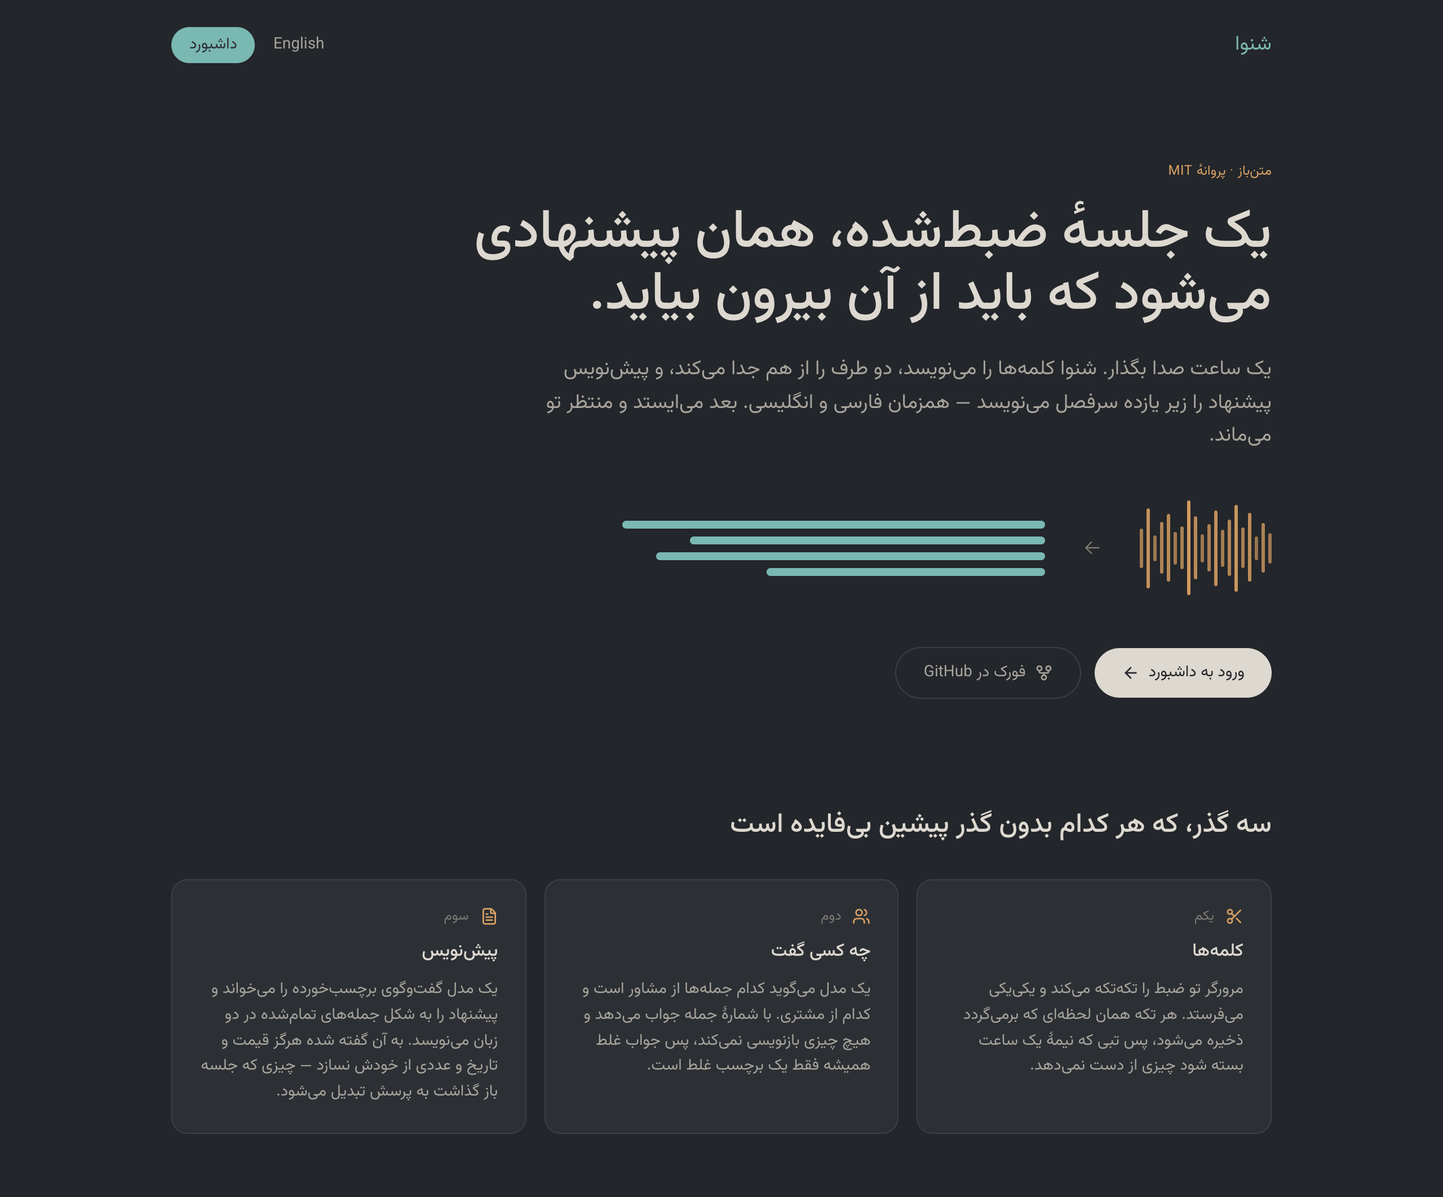
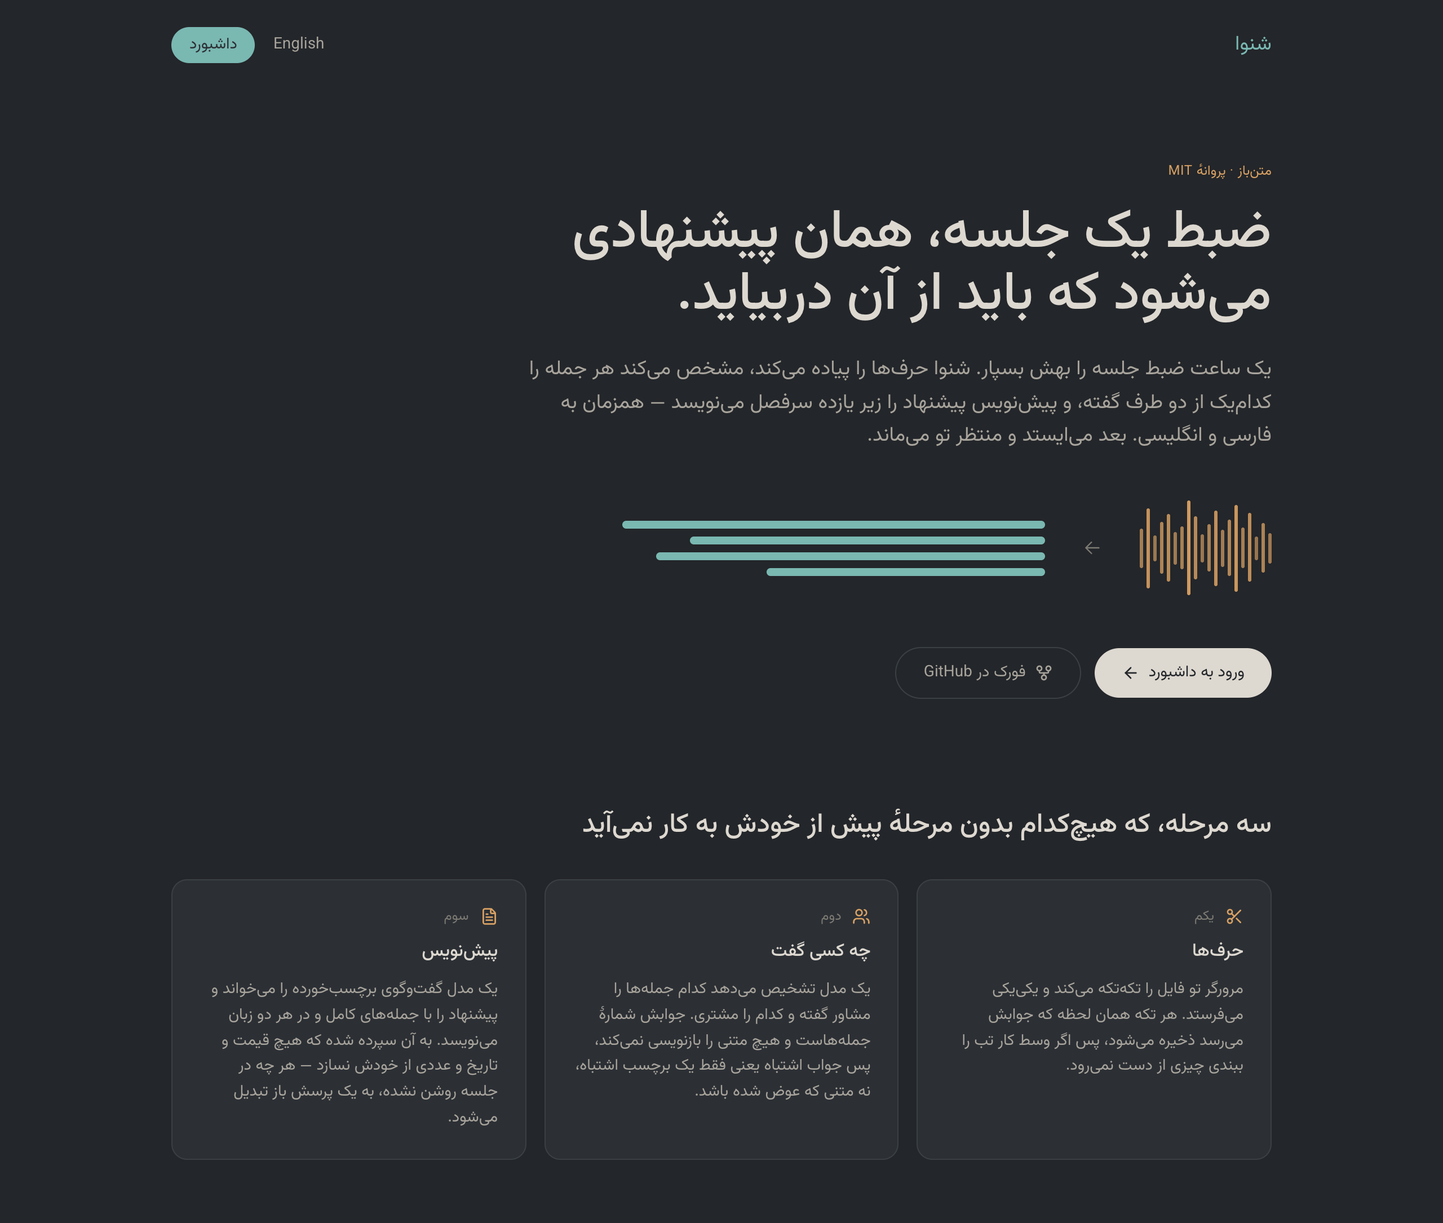
shenava: the Persian on the landing page, written as Persian
A native reader found it reading like English wearing Persian words, which it
was. The rule in AGENTS.md — the Persian edition is written as Persian, not
translated — was not kept on this page.

«گذر» is gone. It was a literal "pass", and in Persian a گذر is something you
walk through, not a stage of work: «مرحله» is the word. That replaces it on the
landing page and in the three other places it had reached — the speaker screen's
run-again button, the swap explanation, and the writer note in settings.

«یک ساعت صدا بگذار» was a calque of "drop in an hour of audio" and means nothing
in Persian; you hand a file to something. The three cards, the privacy note and
the cost line are all rewritten the same way, for sense rather than for word
order.

Two mistakes the rewrite turned up. «نه دقیقه» without its diacritic reads as
"not a minute" rather than "nine minutes". And the Persian edition said a long
piece was one and a half megabytes where the English said 1.6 — a number that
had drifted between the two editions, which is exactly what the kernel rule
exists to prevent.

The Persian screenshot is taken again, because the words in it changed.

diff --git a/prompts/BUILD-PROMPT.md b/prompts/BUILD-PROMPT.md
@@ -6,7 +6,14 @@ sufficient on its own: everything the agent needs to decide is decided here, and
 where a number matters the number is given.
 
 If you only want to understand the product, read [`PRD.md`](PRD.md) instead.
-This file is the instruction; that one is the specification.
+This file is the instruction; that one is the specification. The Persian edition
+of this instruction is [`BUILD-PROMPT.fa.md`](BUILD-PROMPT.fa.md), and it is
+written as Persian rather than translated — either one on its own builds the
+same application.
+
+This file is kept in step with the repository it built. Everything below
+describes Shenava as it now stands, including the four or five decisions that
+were made differently once and corrected.
 
 ---
 
@@ -21,12 +28,21 @@ This file is the instruction; that one is the specification.
 >
 > ### Stack, fixed
 >
-> Next.js (App Router, TypeScript, React Server Components), Tailwind CSS,
+> Next.js 16 (App Router, TypeScript, React Server Components), Tailwind CSS 4,
 > Supabase Postgres reached through `@supabase/supabase-js` with the service
 > role key on the server only, `next-intl` for Persian and English with Persian
 > as the default and right-to-left, `zod` for every payload boundary, the `docx`
 > package for Word output, `lucide-react` for icons, and
 > `@mazarix/voice-kernel` from npm (MIT) for the transcription constants.
+>
+> Two things about Next 16 in particular: the request-time middleware file is
+> now `src/proxy.ts`, not `middleware.ts` — the convention was renamed, while
+> the import stays `next-intl/middleware`, because next-intl has no `/proxy`
+> entry point. And read the guides under `node_modules/next/dist/docs/` rather
+> than working from memory of an older version; several conventions moved.
+>
+> Run the dev server on **port 3100**, not 3000, so it does not collide with
+> whatever else the person has running.
 >
 > Model calls go to **OpenRouter** over its OpenAI-compatible chat completions
 > endpoint. One key, `OPENROUTER_API_KEY`. Do not add a provider SDK.
@@ -47,9 +63,9 @@ This file is the instruction; that one is the specification.
 > tail of the chunk before it. A wrong answer must only ever be a wrong label.
 >
 > **Pass three, the draft.** A model reads the labelled dialogue and writes the
-> proposal draft under the eleven headings listed below, **in both languages at
-> once**, as finished formal sentences that could stand in the proposal
-> unchanged. Then it stops: the draft is `pending` and a person decides.
+> proposal draft under the headings listed below, **in both languages at once**,
+> as finished formal sentences that could stand in the proposal unchanged. Then
+> it stops: the draft is `pending` and a person decides.
 >
 > ### Pass one in detail — this is the part that is not obvious
 >
@@ -80,6 +96,10 @@ This file is the instruction; that one is the specification.
 > like an error), and **disable the mode with a visible sentence** when
 > `AudioEncoder` is absent or cannot do Opus, which is Safari's case. Do not
 > offer it and fail.
+>
+> **Mode B is the default and is offered first**, because it is what a real
+> meeting wants; a browser with no Opus encoder falls back to mode A, since the
+> default must never be the disabled option.
 >
 > **Every tuned number in this pipeline comes from `@mazarix/voice-kernel` and
 > nothing may hard-code one.** The prompt, the retry policy, the timeout curve,
@@ -114,6 +134,24 @@ This file is the instruction; that one is the specification.
 > half again the room. Do not parse what was never finished: a truncated JSON
 > reads as "unreadable" and sends you looking in the wrong place.
 >
+> ### Every seat's output ceiling is computed, and lives in one testable file
+>
+> This is the same mistake made three times, so make it impossible once. Put
+> `outputCeilingFor(durationMs, floor)`, `spansCeilingFor(sentences, floor)` and
+> `ceilingFor(promptLength, floor)` in **one file with no imports at all** —
+> because the modules that call them are marked `server-only`, and `server-only`
+> does not resolve outside Next, which would put these numbers beyond the reach
+> of a test. Scale the transcriber by the audio (about 40 output tokens a second
+> of speech), the speaker pass by the sentence count (about 40 a sentence), and
+> the writer by the length of what it was given (about a token a character),
+> each never below the configured floor and never above one hard maximum.
+>
+> An answer stopped at its ceiling does not arrive labelled as such. It arrives
+> as a truncated transcript that reads like bad dictation, or as half a JSON
+> object that reads as "this model does not return reliable JSON". Both send you
+> to the model settings; neither is the model. The tell is in the ledger:
+> `tokens_out` of exactly the configured ceiling, twice, to the token.
+>
 > ### Audio is never stored
 >
 > Not in the database, not in object storage, not on disk. The browser decodes
@@ -121,6 +159,13 @@ This file is the instruction; that one is the specification.
 > transcribes it and forgets it; the whole file is never uploaded anywhere. The
 > **text** is stored, deliberately, because the text is the product. Say both
 > sentences in the README.
+>
+> One consequence you must build rather than apologise for: sending starts on
+> the create page, while the samples are still in that page's memory, so the
+> file is chosen exactly once on the ordinary path. If the tab was closed and
+> the meeting is reopened with pieces still pending, ask for **the same file**
+> again and check its sha256 against the one on the meeting row before sending a
+> byte. Say why the second ask happens.
 >
 > ### The database
 >
@@ -130,7 +175,9 @@ This file is the instruction; that one is the specification.
 > **`shenava_settings`**, one row id 1 — the studio's name in both scripts and
 > its voice as free text; the transcriber's model, fallback model and output
 > ceiling; the writer's model, temperature and output ceiling; a daily and a
-> monthly dollar ceiling; retention in days.
+> monthly dollar ceiling; retention in days. Default the transcriber to a fast
+> multimodal model and the writer to one with judgement — the seats want
+> different models, which is why they have separate columns rather than one.
 >
 > **`shenava_meetings`** — title, client name, language; the audio's *shape*
 > (name, bytes, sha256, duration, piece count) but never the audio; transcript;
@@ -159,6 +206,11 @@ This file is the instruction; that one is the specification.
 > **`shenava_proposals`** — what an approved draft becomes: a number, a
 > language, a client, and the template's sections filled in.
 >
+> Three functions beside them: `shenava_spend_status()`, read before every model
+> call; `shenava_cost_by_seat(days)` for reading the ledger back; and
+> `shenava_clear_out()`, which drops meetings past `retention_days`, where zero
+> means keep forever. Plus a touch trigger for `updated_at`.
+>
 > Enable Row Level Security on all six and write **no policies**, which locks
 > the anon key out of everything; all access is server-side through the service
 > role key. Ship the DDL as `db/01_schema.sql`, idempotent, paste-able into the
@@ -177,10 +229,13 @@ This file is the instruction; that one is the specification.
 > the call succeeded or not — a failed call that consumed tokens still cost
 > money. Default the ceilings to $3 a day and $30 a month.
 >
-> ### The draft's eleven sections
+> ### The draft's sections
 >
-> In this order, with these headings in both languages, and each wanting exactly
-> what is described:
+> Two keys settle what the document is — `title`, the engagement in a few words,
+> and `engagement`, one of `project|consulting|training|retainer|unknown`, which
+> is what chooses the suggested template. Then **eleven sections**, in this
+> order, with these headings in both languages, each wanting exactly what is
+> described:
 >
 > `summary` — «خلاصهٔ پیشنهاد» / Summary. Two or three sentences: what the
 > client needs, what is proposed, and what is different for them afterwards.
@@ -195,7 +250,8 @@ This file is the instruction; that one is the specification.
 >
 > `phases` — «مراحل و زمانبندی» / Phases and timeline. The stages the
 > consultant proposed and the client accepted, each a title and a line of
-> detail, with a `when` only if the meeting settled it.
+> detail, with a `when` only if the meeting settled it — plus a `scheduleNote`,
+> one line on the overall timing, only if it was discussed.
 >
 > `method` — «روش اجرا، مشارکت و پشتیبانی» / How we work, together, and
 > afterwards. Discovery, iterations, what the client's side provides, how
@@ -224,6 +280,17 @@ This file is the instruction; that one is the specification.
 > The model writes the facts **first**, then both editions from that list and
 > from nothing else.
 >
+> Three sections a proposal also prints are deliberately **not** here: why us,
+> the terms, and the priced packages. Those are the studio's own lines, they
+> live on the template as house lines, and the writer is told about them so it
+> never proposes them itself.
+>
+> The notes keys are the template's section keys, so pouring an approved draft
+> into a template is a copy and not a mapping. Clamp every length rather than
+> rejecting: a model cannot count characters, least of all in Persian, and a
+> good set of notes with one over-long line is a good set of notes. A missing
+> section arrives empty rather than failing the parse.
+>
 > ### The writer's rules, which go in its prompt
 >
 > Every line under a section is a finished, formal, fluent sentence that could
@@ -232,7 +299,9 @@ This file is the instruction; that one is the specification.
 > **Never invent a price, a timeline, a percentage, a headcount or a deadline.**
 > A number that was said is kept exactly; a number that was not said means the
 > section stays quieter and the question goes to `openQuestions`. This is the
-> rule the whole product is judged on.
+> rule the whole product is judged on — so put the wording of it in a file with
+> no imports, and have a test assert the phrasing, so that softening it has to
+> be a deliberate act with a failing test in front of it.
 >
 > Read the **client's** lines for understanding, goals, budget and exclusions,
 > and the **consultant's** lines for phases, method and deliverables — and write
@@ -264,14 +333,17 @@ This file is the instruction; that one is the specification.
 > to the sample meeting; and two buttons — open the dashboard, and fork it.
 > Animate it: a waveform resolving into lines of text, the three passes arriving
 > on scroll, counters that count. Make it good; it is the first thing anyone
-> sees and the reason they fork it.
+> sees and the reason they fork it. Point the fork button at the repository
+> itself, and check where it lands — a fork URL that is one path segment wrong
+> opens an empty page and nobody reports it.
 >
 > **`/app` — meetings.** The list: title, client, when, status, cost, draft
-> status. Newest first.
+> status. Newest first. A meeting can be deleted from here, with a confirmation.
 >
 > **`/app/new` — new meeting.** Title, client, language, mode, file. Choosing
 > the file plans the cuts **in the browser** and shows what it will do — "7
-> pieces, about 4 minutes" — before anything is sent.
+> pieces, about 4 minutes" — before anything is sent. Sending then starts on
+> this same page: the samples are already here, so the file is chosen once.
 >
 > **`/app/m/[id]` — one meeting**, the working surface, revealed in stages:
 > the pieces as a strip with their state while it transcribes; the transcript
@@ -304,23 +376,53 @@ This file is the instruction; that one is the specification.
 > read from the environment and shown as *set* or *missing*, **never their
 > values**, with a **test** button that really calls all three and answers green
 > or red per line; and the schema file to paste, with a check for whether the
-> tables exist yet.
+> tables exist yet. This page must repeat every check the setup script makes,
+> because it is where a person goes when something stops working later.
 >
 > **`/app/templates`** — the built-in template and your own: sections, headings
 > in both languages, house lines.
 >
-> ### Keys and the door
+> ### Keys, the setup script, and the door
 >
 > No key in code, in the database, or in the browser.
 > `NEXT_PUBLIC_SUPABASE_URL`, `SUPABASE_SERVICE_ROLE_KEY` and
-> `OPENROUTER_API_KEY` are required; `APP_PASSWORD` is optional and **empty by
-> default**, meaning no login at all — which is correct on `localhost`, where
-> the only person who can open the page is the person sitting at the machine.
-> Put the whole decision of "who is asking" in one function in one file, so that
-> real accounts can be added later without touching anything else. In the README,
-> say plainly: leave it empty locally; set it before putting this on a public
-> domain, because a public deployment carries your own OpenRouter key and anyone
-> who opens the record page is spending your money. Ship `.env.example`.
+> `OPENROUTER_API_KEY` are required; `NEXT_PUBLIC_SUPABASE_ANON_KEY`,
+> `OPENROUTER_APP_NAME` and `OPENROUTER_APP_URL` are optional. Ship
+> `.env.example` with every one of them and a comment saying what it is for.
+>
+> **Write a setup script**, `npm run setup`, and make it the whole of
+> configuration. It asks for one value at a time and **tests each answer against
+> the real service before asking the next question** — fetches the Supabase
+> project, tries the service key against a real table, counts the six tables and
+> stops to have the two SQL files pasted if they are missing, calls OpenRouter
+> and prints the remaining credit. It writes `.env.local` only at the end, after
+> showing every value it is about to write — a key as `set · 219 characters`,
+> never the key itself — and it never prints a key back. Re-running it keeps
+> every answer the person does not change.
+>
+> The reason for the script rather than "edit this file": a wrong value in an
+> environment file is not discovered when it is written. It is discovered later,
+> as a page that will not load, at which point the file looks perfectly
+> reasonable and you are debugging the wrong half of the problem.
+>
+> **The door.** `APP_PASSWORD` is empty by default, meaning no login at all,
+> which is correct on `localhost`: the only person who can open the page is the
+> person sitting at the machine. Put the whole decision of "who is asking" in one
+> function in one file — `allowed()` in `lib/auth.ts` — so that real accounts can
+> be added later without touching anything else.
+>
+> Be honest about what a half-built door does. If `allowed()` demands a signed
+> session cookie whenever `APP_PASSWORD` is set, and you have not built a
+> sign-in page that issues one, then setting it does not protect anything: it
+> refuses every write and leaves no way in. So either write the sign-in page, or
+> say plainly — in `.env.example`, in the README, and by having the setup script
+> write it empty without offering to set it — that this build has no login and
+> the variable must stay empty until one exists. Keep `sessionCookie()` written
+> and exported, so the page that is missing has something to mint from.
+>
+> Then say the rest of it plainly in the README: a public deployment carries your
+> own OpenRouter key, and anyone who opens the record page is spending your
+> money, so write the door before deploying rather than after.
 >
 > ### Design
 >
@@ -335,27 +437,72 @@ This file is the instruction; that one is the specification.
 > widens instead. Give any such scroller `position: relative`.
 >
 > Both message catalogues must hold the same key set, and nothing user-facing
-> may be a string literal in a component.
+> may be a string literal in a component. A key whose value is an object cannot
+> be asked for as a string: `t("mode")` beside a `mode: { … }` block throws at
+> render while the page still answers 200, so give the label its own key.
+>
+> Three failures on this side answer 200 and look like nothing, so build against
+> them from the start: a Tailwind 4 arbitrary value the browser discards without
+> a word; a navigation into a dynamic route that shows no sign of having been
+> clicked because there is no `loading.tsx` above it; and a long await inside
+> `useTransition`, which entangles every navigation in the application. Add a
+> headless-browser script that opens each page and reports anything that
+> rejects, and an `instrumentation-client.ts` that catches a rejection whose
+> value is not an `Error` before Next's overlay coerces it into
+> `[object Object]` with the handler's own stack — in development only, and
+> ignoring what a browser extension injected, because the first hour of that was
+> spent on a wallet extension's JSON-RPC error.
+>
+> ### How the tests are run, and what that constrains
+>
+> `npm test` is `node --test tests/*.test.ts` — run directly against the
+> TypeScript, with no bundler in front of it. Two consequences shape the layout
+> of `src/lib`:
+>
+> A relative import inside `src/lib` **carries its `.ts` extension**
+> (`from "./text.ts"`), because node's ESM resolver does not guess one.
+> Turbopack and `tsc` both accept the explicit form, so set
+> `allowImportingTsExtensions` in `tsconfig.json` and use it everywhere.
+>
+> Pure logic must not live in a module marked `server-only`: that package does
+> not resolve outside Next, so anything importing it is unreachable from a test.
+> Mark a module `server-only` when it holds a key, a database client or a
+> `next/*` import — not because it happens to run on the server today. The
+> ceilings, the settings shape, the proposal guide, the Word writer and the
+> print sheet are all outside it for exactly this reason.
+>
+> Aim for about a hundred tests and no browser or network in any of them. Have
+> one of them build a real .docx and read its XML back: that test found a bug
+> the typecheck could not — the draft's own title was not reaching the document.
 >
 > ### Order of work
 >
 > 1. The project, the environment example, the schema and the seed, the
->    connections page. Stop here and confirm it runs and the sample meeting
->    renders with no OpenRouter key set.
+>    connections page. Stop here and confirm it runs on port 3100 and the sample
+>    meeting renders with no OpenRouter key set.
 > 2. The pure logic, with unit tests as you go: the splitter and the quietest
 >    cut; the WAV writer and the byte-level halving; the Opus encoder and the
 >    Ogg container and its page-level halving; the sentence cutter and
 >    ranges-to-turns and the two splitters; the notes schema and its section
->    merge; Word and the print sheet.
+>    merge; the ceilings; Word and the print sheet.
 > 3. The server: the OpenRouter client, the price table, the spend check and the
 >    ledger, the transcription call with its three failure handlers, the speaker
->    pass, the writer, one-section rewrite, and the five routes.
+>    pass, the writer, one-section rewrite, and the routes.
 > 4. The dashboard: list, new, the meeting page with all three stages, settings,
 >    templates.
 > 5. The landing page and its animation.
-> 6. The README, and a `docs/` note for each thing that took you more than an
->    hour to find — the symptom, what it actually was, and the command that
->    would find it again.
+> 6. The setup script, and the README written around it — three commands, then
+>    the questions the script asks, in the order it asks them.
+> 7. A `docs/` note for each thing that took more than an hour to find: the
+>    symptom as it appeared, what it actually was, and the command that would
+>    find it again. The last part is the point. Then a walkthrough of one
+>    recording from chosen to drafted, with every number and the reason for it,
+>    which is the document to read before touching the cutting code.
+> 8. The Persian editions: the README, the walkthrough, and this instruction.
+>    Each written as Persian, not translated. GitHub renders a README in a font
+>    stack with no Persian glyphs and its sanitiser strips `style`, so if the
+>    Persian edition matters, give it a page of its own in a readable face and
+>    link to it.
 >
 > ### What proves it is done
 >
@@ -364,8 +511,8 @@ This file is the instruction; that one is the specification.
 > reason. A filtered piece produces two halved requests and a piece row that
 > says so. The draft contains no figure the transcript does not contain.
 > Approving pours the draft into the template and produces a numbered proposal.
-> Both catalogues hold the same keys, and no Persian page scrolls sideways at
-> 320 pixels.
+> `npm run typecheck && npm test` is green. Both catalogues hold the same keys,
+> and no Persian page scrolls sideways at 320 pixels.
 
 ---
 
@@ -373,11 +520,16 @@ This file is the instruction; that one is the specification.
 
 It is long on purpose. Every paragraph that reads like an over-specification is
 a thing that was got wrong once: the safety filter, the output ceiling on long
-pieces, the Ogg container, the editing splitter gluing «بله» onto its neighbour,
-the absolutely positioned label widening the page. An agent given the short
-version of this prompt will write something that looks right and fails on real
-audio.
+pieces — three times, in three seats — the Ogg container, the editing splitter
+gluing «بله» onto its neighbour, the absolutely positioned label widening the
+page, the half-built door that locks you out, the overlay whose whole message
+was `[object Object]`. An agent given the short version of this prompt will
+write something that looks right and fails on real audio.
 
 The one thing you should change before running it is the **stack**, if you do
 not want Next.js and Supabase. The three passes, the two cutting modes and the
 failure handling are the product; the framework is not.
+
+The rules an agent working *inside* the finished repository has to know are a
+different document: [`AGENTS.fa.md`](AGENTS.fa.md) in Persian, and
+[`AGENTS.md`](../AGENTS.md) at the root of the repository in English.
